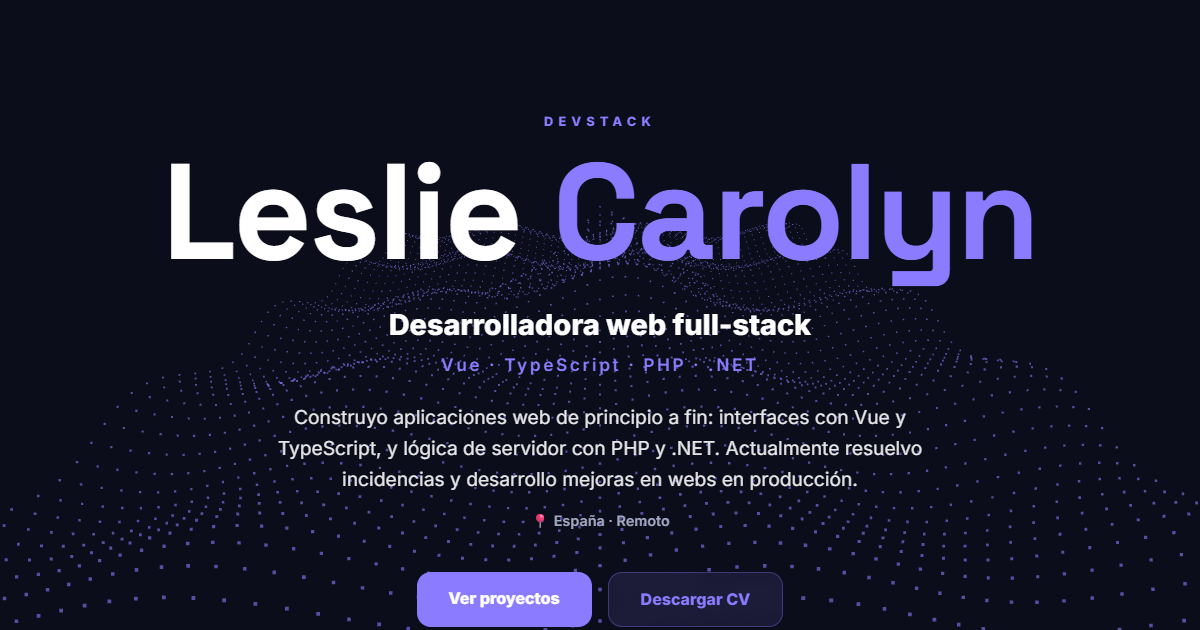
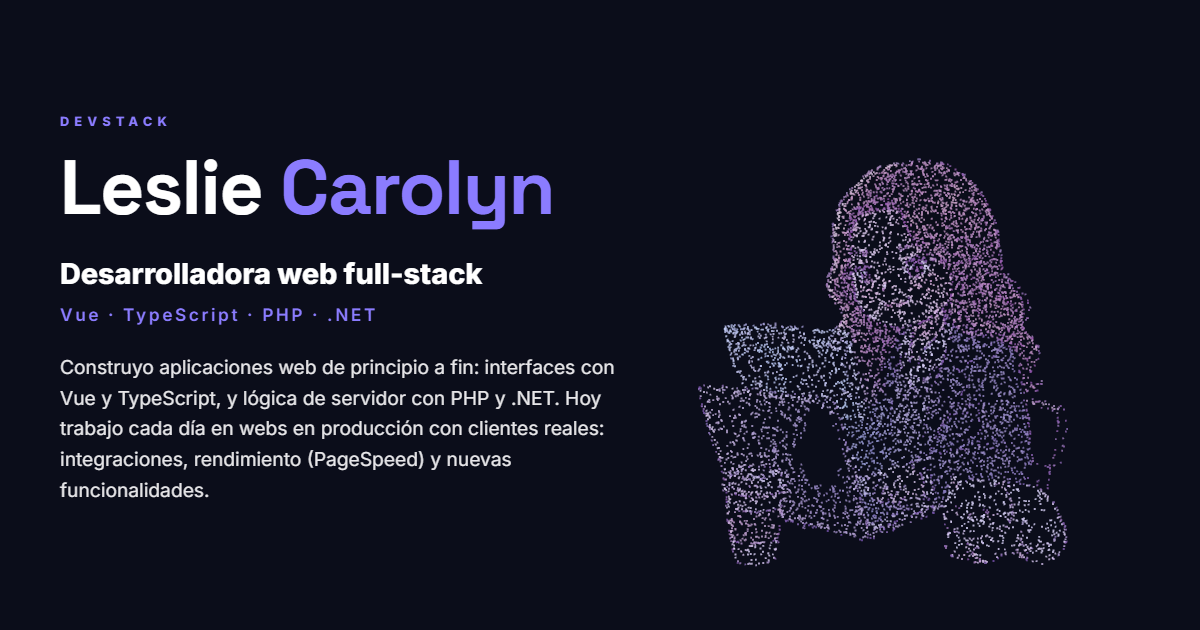
Update README themes and social preview image

diff --git a/README.md b/README.md
@@ -15,7 +15,7 @@ Personal portfolio of **Leslie Carolyn**, full-stack web developer (Vue.js · Ty
 ## Features
 
 - **Bilingual (ES / EN)** with `vue-i18n`; the `<html lang>` attribute follows the selected language.
-- **Two themes**: *Deep Space* (dark, blue accent) and *Nebula* (light, pink accent), built on CSS custom properties.
+- **Two themes**: dark (indigo accent) and light (coral accent), built on CSS custom properties.
 - **Morphing 3D particles** with Three.js: 9,000 particles form an illustrated avatar in the hero, flow into a wave through the middle sections and become an envelope at the contact section, with a staggered transition driven by scroll and a mouse-repel effect. The avatar point cloud is precomputed from an illustration (`public/particles/avatar.bin`). Lazy-loaded, and static when the OS asks for reduced motion.
 - **Data-driven project cards** with links to code and live demos, plus a detail modal (architecture diagram, challenge, stack). The modal closes with `Esc`.
 - **Experience timeline, skills and downloadable CV** in both languages.
